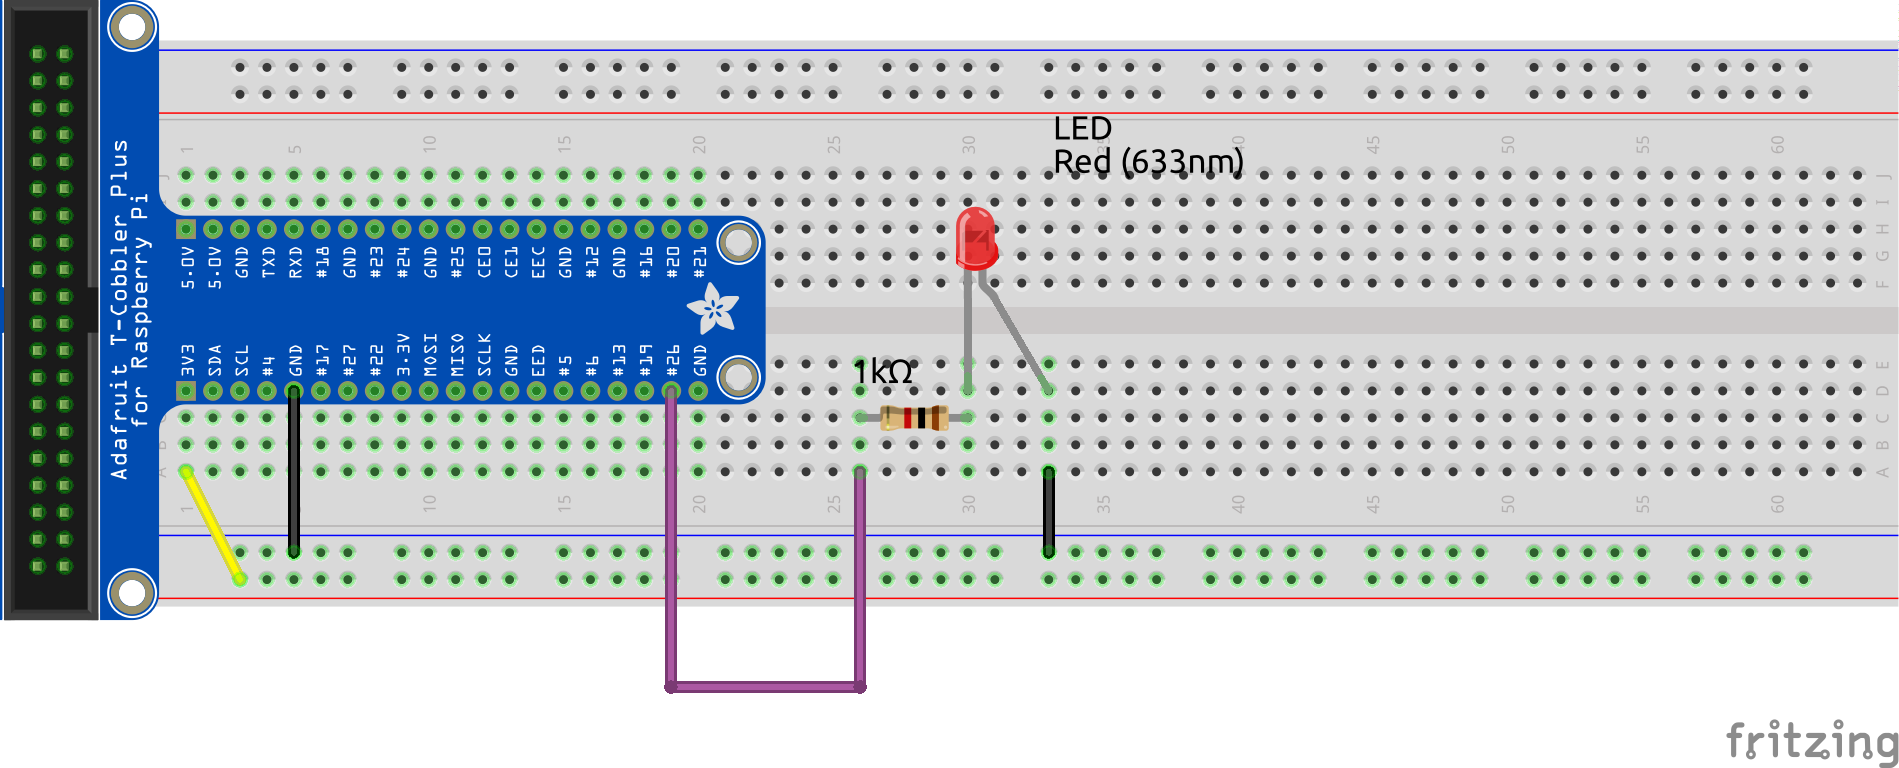
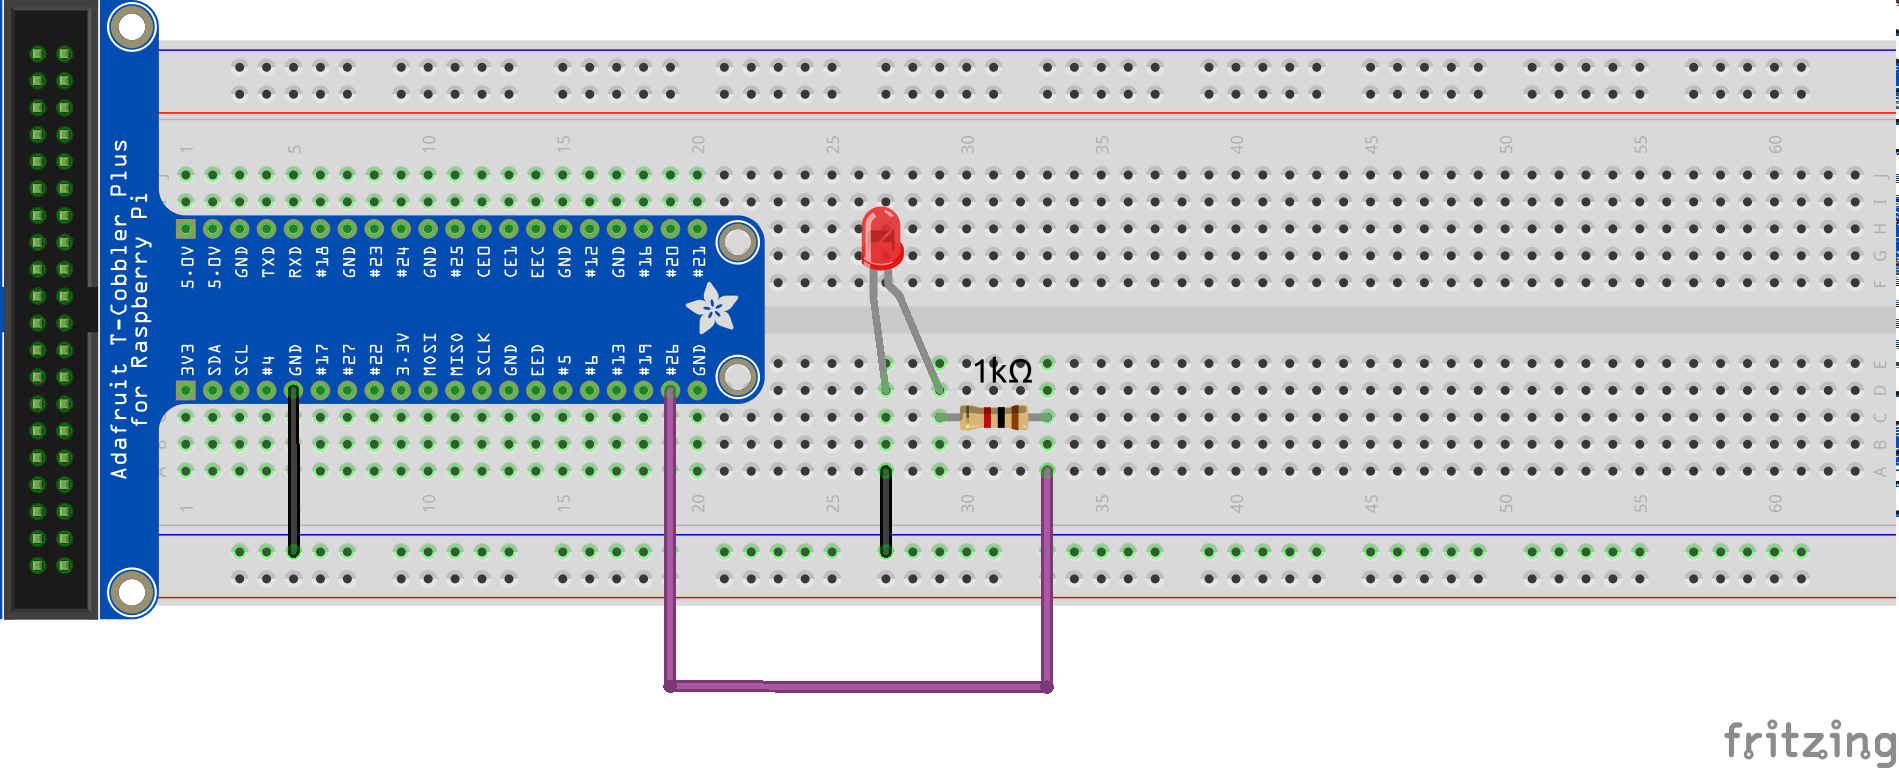
bugfix simple led layout

diff --git a/content/documentation/device-examples/SimpleLED.md b/content/documentation/device-examples/SimpleLED.md
@@ -16,7 +16,7 @@ The template Class gives you the option to switch off, switch on or toggle the s
 A simple example on how to use the LED-Class from the [Hardware-Catalog](https://github.com/Pi4J/pi4j-example-components) :
 ```
 // Create a new SimpleLED component
-SimpleLED led = new SimpleLED(pi4j, 17);
+SimpleLED led = new SimpleLED(pi4j, 26);
 
 // Turn on the LED to have a defined state
 led.setStateOn();
